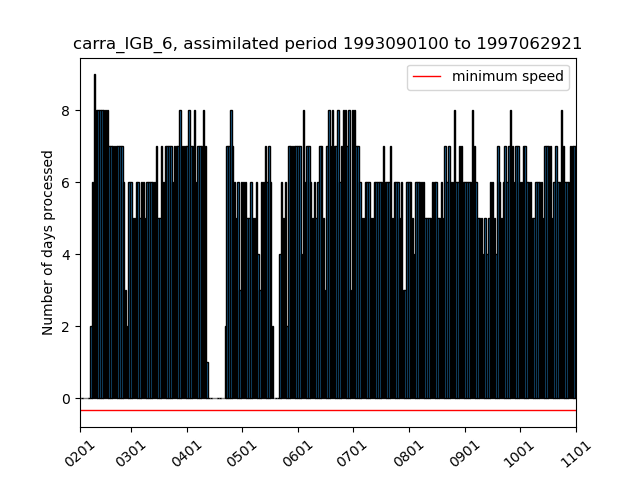
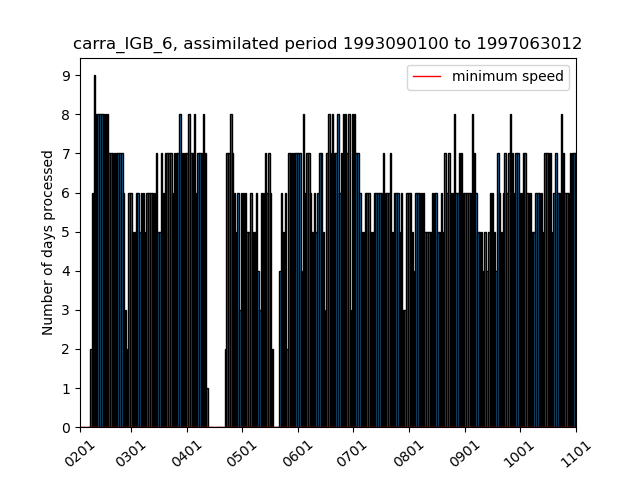
update repo

diff --git a/current_state_sims.html b/current_state_sims.html
@@ -2,20 +2,18 @@
 <h1>Estimated completion dates and simulation speeds</h1>
 <p>Stream (production) completion date based on 30d (7d) moving avg speed</p>
 <p><a href="https://docs.google.com/document/d/1zDKAxuEXYnWWYzT3SZnZwY5WW8nodUMeYRjAGz46coc/edit#">Details of the calculation of the completion dates</a></p>
-<p>Last update: 2021/11/02 06:43:32 UTC</p>
+<p>Last update: 2021/11/02 09:49:53 UTC</p>
 <p>Total progress CARRA: 100.11% <a href="https://hirlam.org/portal/CARRA/Progress/GanntChart_CARRA.html"> (see detailed progress meter in Gantt chart) </a></p>
 <p>Total progress PANARCTIC: 91.67% </p>
 <p><a href="https://hirlam.org/portal/CARRA/Progress/waiting_times.html"> Queue waiting times for all streams</a></p>
 <p><a href="https://hirlam.org/portal/CARRA/Progress/mars_status.html"> MARS archive throughput </a></p>
 <html><table border="1"><tr><th>expId</th><th>Current assimilated date</th><th>End date of stream </th><th> Completion date</th><th> Avg. throughput (7d) </th> <th>Avg. throughput (30d) </th> <th> Remarks</tr>
-<tr bgcolor="#33FF38"><td>carra_NE_3</td><td>2021070103</td><td>2021063021</td><td>2021101806</td><td>(0.0) days/day</td><td>(0.07) days/day</td><td>Stream finished</tr>
+<tr bgcolor="#33FF38"><td>carra_NE_3</td><td>2021070103</td><td>2021063021</td><td>2021101809</td><td>(0.0) days/day</td><td>(0.07) days/day</td><td>Stream finished</tr>
 <tr bgcolor="#33FF38"><td>carra_NE_4</td><td>1992090100</td><td>1992083021</td><td>Finished on 20210824</td><td>(0.0) days/day</td><td>(0.0) days/day</td><td>Stream finished</tr>
 <tr bgcolor="#33FF38"><td>carra_NE_5</td><td>1994090100</td><td>1994083021</td><td>Finished on 20210824</td><td>(0.0) days/day</td><td>(0.0) days/day</td><td>Stream finished</tr>
 <tr bgcolor="#33FF38"><td>carra_NE_6</td><td>1997070100</td><td>1997063021</td><td>Finished on 20210915</td><td>(0.0) days/day</td><td>(0.0) days/day</td><td>Stream finished</tr>
-<tr bgcolor="#33FF38"><td>carra_IGB_3</td><td>2021070100</td><td>2021063021</td><td>2021100306</td><td>(0.0) days/day</td><td>(0.03) days/day</td><td>Stream finished</tr>
+<tr bgcolor="#33FF38"><td>carra_IGB_3</td><td>2021070100</td><td>2021063021</td><td>2021100309</td><td>(0.0) days/day</td><td>(0.03) days/day</td><td>Stream finished</tr>
 <tr bgcolor="#33FF38"><td>carra_IGB_4</td><td>1992090100</td><td>1992083021</td><td>Finished on 20210907</td><td>(0.0) days/day</td><td>(0.0) days/day</td><td>Stream finished</tr>
 <tr bgcolor="#33FF38"><td>carra_IGB_5</td><td>1994090100</td><td>1994083021</td><td>Finished on 20210925</td><td>(0.0) days/day</td><td>(0.0) days/day</td><td>Stream finished</tr>
-<tr bgcolor="#FFA500"><td>carra_IGB_6</td><td>1997062921</td><td>1997063021</td><td>2021110210</td><td>(6.57) days/day</td><td>(6.33) days/day</td><td>Completion date after project end (20211031)</tr>
-<tr bgcolor="#FFA500"><td>carra_pan</td><td>2018090100</td><td>2018090100</td><td>2021110206</td><td>(0.0) days/day</td><td>(0.7) days/day</td><td>Completion date after project end (20211031)</tr>
-<tr bgcolor="#FFA500"><td>carra_pan</td><td>2018090100</td><td>2018090100</td><td>2021110209</td><td>(0.0) days/day</td><td>(0.7) days/day</td><td>Completion date after project end (20211031)</tr>
+<tr bgcolor="#FFA500"><td>carra_IGB_6</td><td>1997063012</td><td>1997063021</td><td>2021110209</td><td>(6.57) days/day</td><td>(6.33) days/day</td><td>Completion date after project end (20211031)</tr>
 <tr bgcolor="#33FF38"><td>carra_pan</td><td>2018090100</td><td>2018090100</td><td>2021110209</td><td>(0.0) days/day</td><td>(0.7) days/day</td><td>Stream finished</tr>
